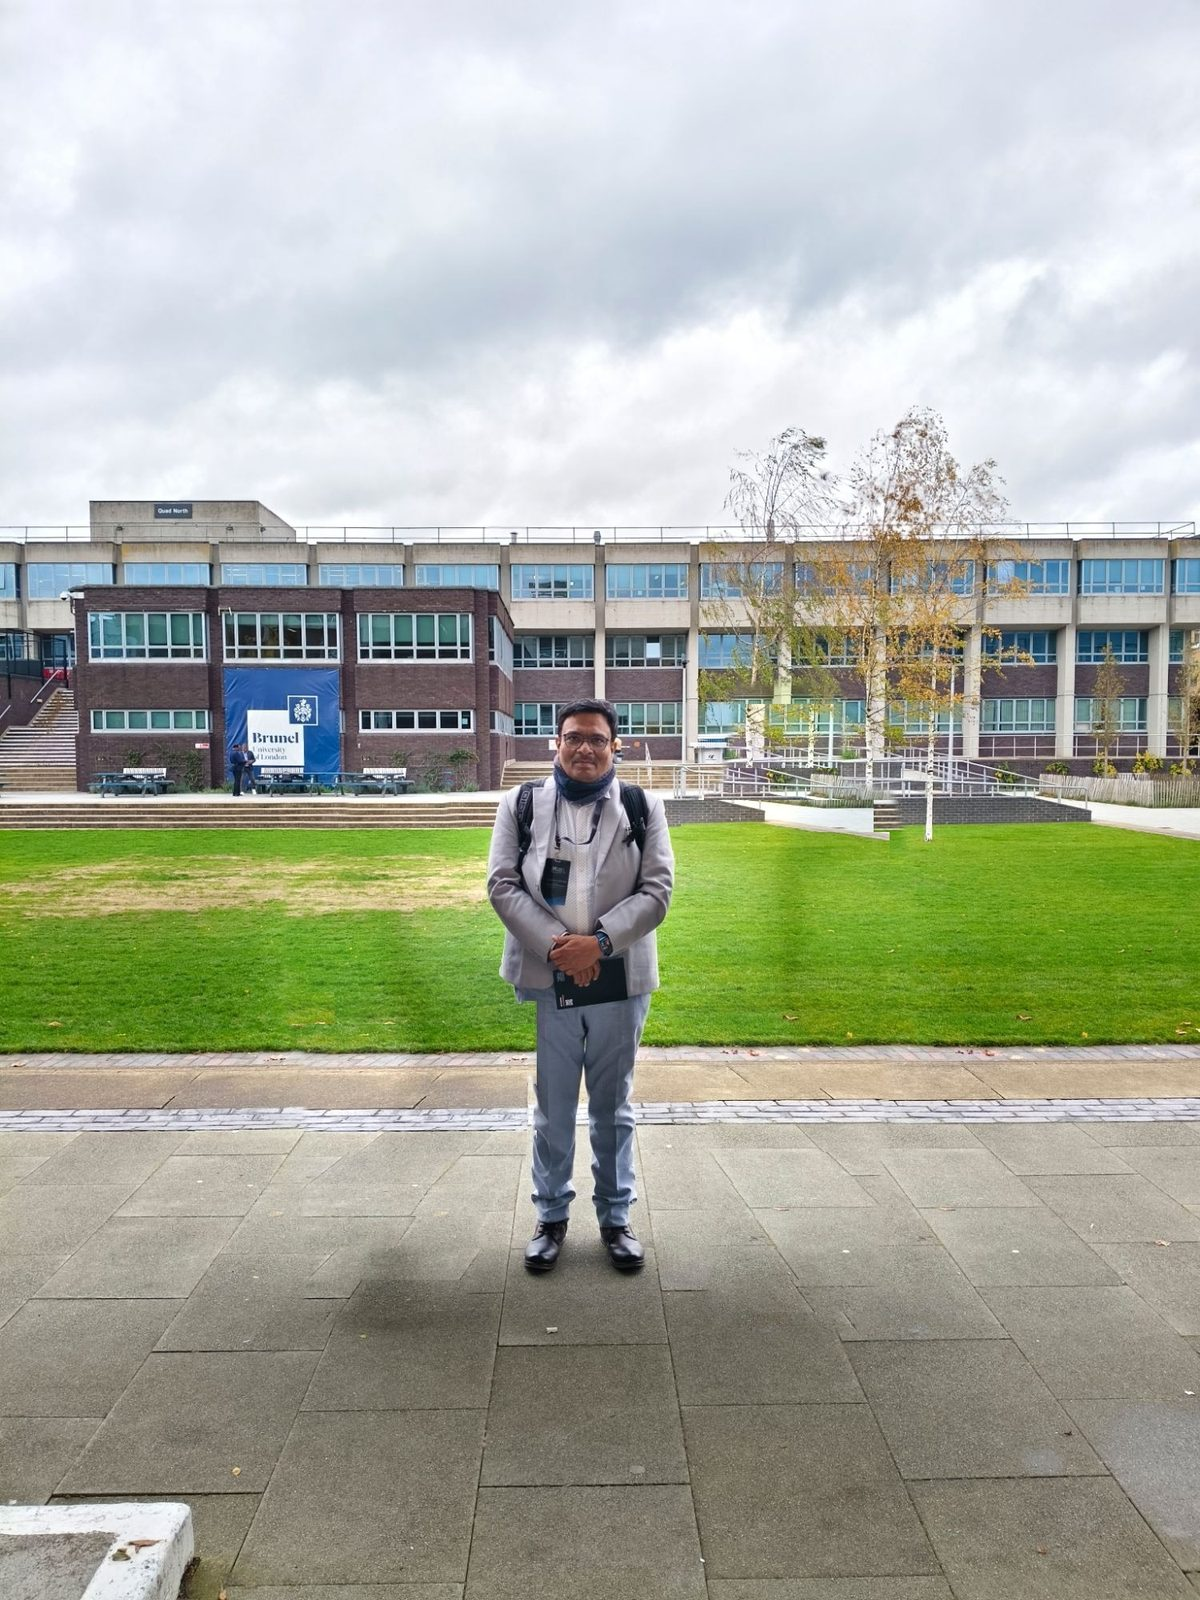
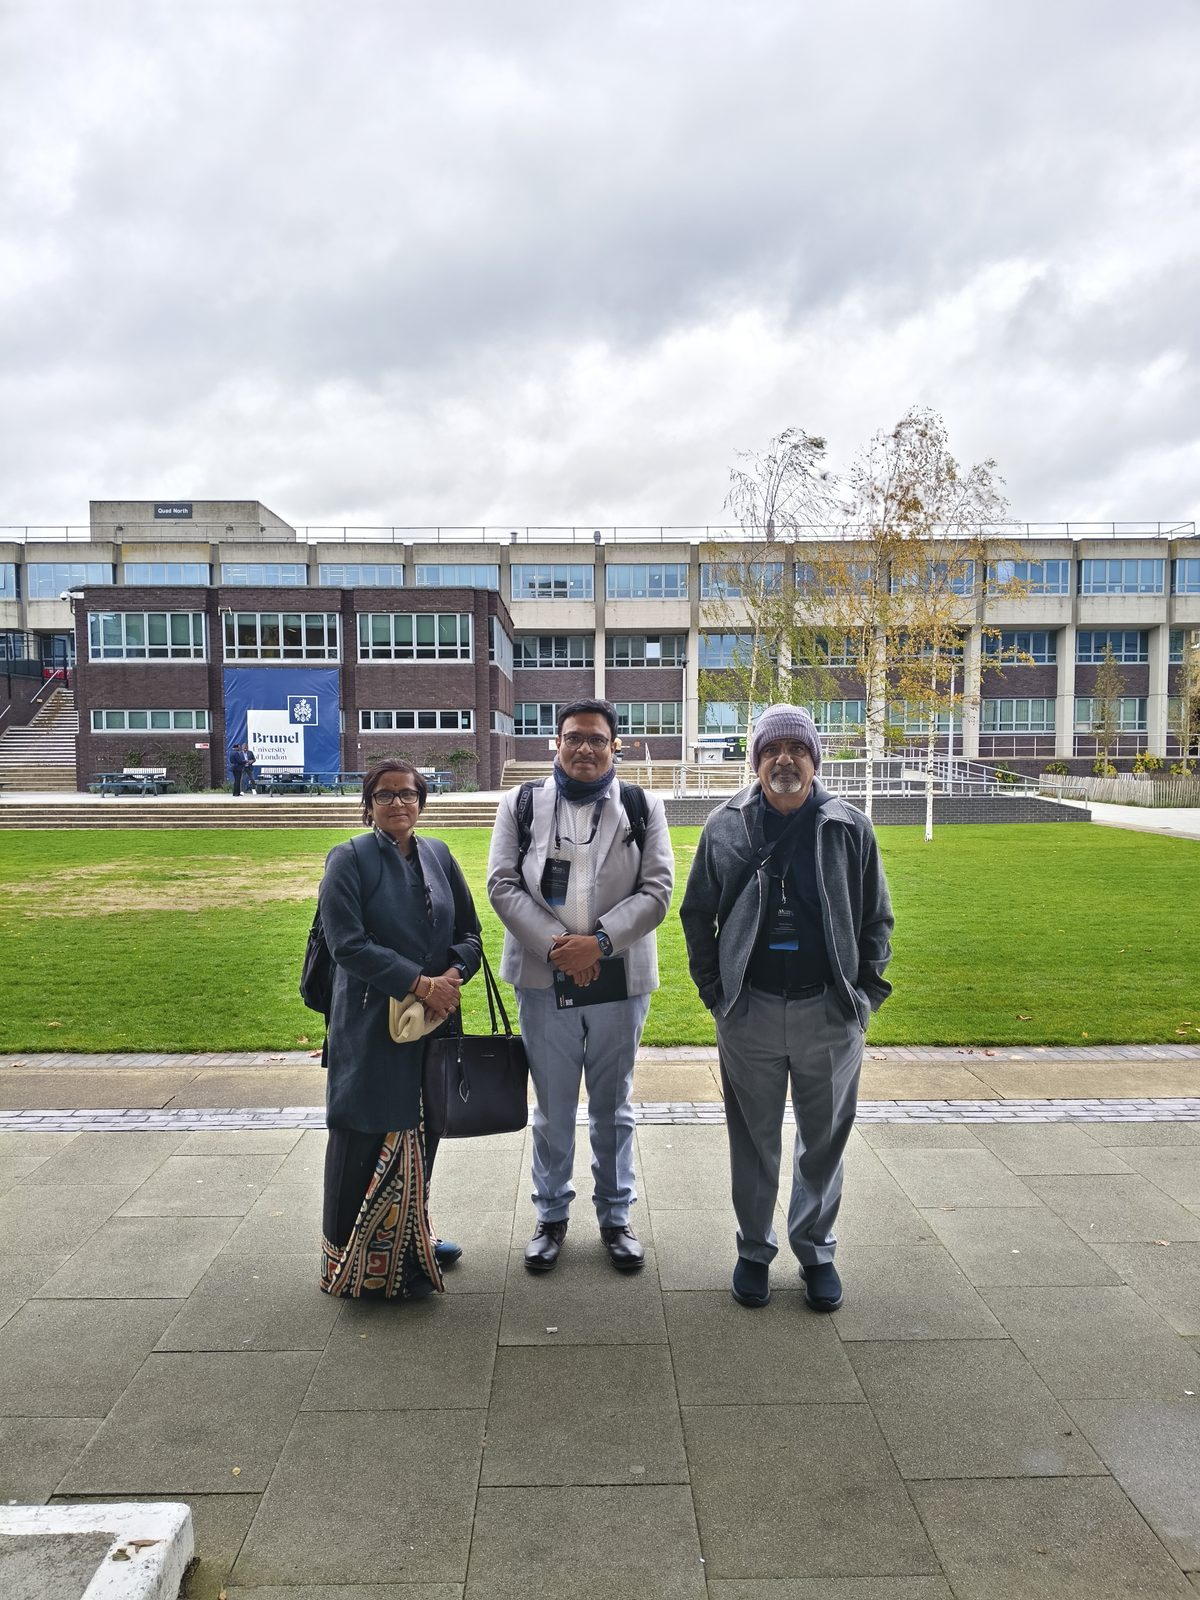
Use the original Brunel group photo, unedited, for the Brunel card
Claude-Session: https://claude.ai/code/session_01WdZG6ugf1gRdkQjxgKKLxw

diff --git a/index.html b/index.html
@@ -1149,8 +1149,8 @@ section { padding:80px 24px; }
       <!-- Brunel University London -->
       <div class="uk-card">
         <div class="uk-frame">
-          <img src="images/uk-brunel.jpg" loading="lazy" style="object-position:50% 58%;"
-               alt="Prof. Satyadhyan Chickerur on the Quad at Brunel University London, Uxbridge">
+          <img src="images/uk-brunel.jpg" loading="lazy" style="object-position:50% 62%;"
+               alt="Prof. Satyadhyan Chickerur with fellow delegates on the Quad at Brunel University London, Uxbridge">
           <div class="photo-placeholder">
             <div class="ph-icon">📸</div>
             <div class="ph-label">Your Brunel University London photo here</div>
